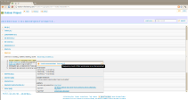
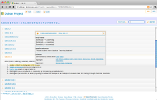
larger, much-improved screenshots

diff --git a/public/javascripts/application-ui.js b/public/javascripts/application-ui.js
@@ -170,11 +170,11 @@
       var id  = $(this).attr('id');
       var url = $(this).attr('href');
       var title = $('h3', this).text() || '';
-      $('<div id="'+id+'-dialog"><img src="'+url+'" height="450" width="846"/></div>').dialog({
+      $('<div id="'+id+'-dialog"><img src="'+url+'" height="600" width="940"/></div>').dialog({
         autoOpen   : false        ,
         dialogClass: 'tour-dialog',
-        height     : 500,
-        width      : 878,
+        height     : 650,
+        width      : 970,
         title      : title
       });
       $(this).click(function(){

diff --git a/public/stylesheets/common.css b/public/stylesheets/common.css
@@ -230,11 +230,6 @@ span.star-icon-span {
   margin: 1em;
 }
 
-.tour-dialog img {
-  height: 450px;
-  width: 846px;
-}
-
 table.banner-container {
   border-spacing: 0px;
 }

diff --git a/app/helpers/application_helper.rb b/app/helpers/application_helper.rb
@@ -46,7 +46,7 @@ module ApplicationHelper
     tag = <<TAG
 <a href="#{image_path(name+'.png')}" title='#{name}' id='tour-#{name}'>
   <h3>#{CGI.escapeHTML description}</h3>
-  #{image_tag(name+'-thumbnail.png', :alt => name, :width => '188', :height => '100')}
+  #{image_tag(name+'-thumbnail.png', :alt => name, :width => '157', :height => '100')}
 </a>
 TAG
   end
